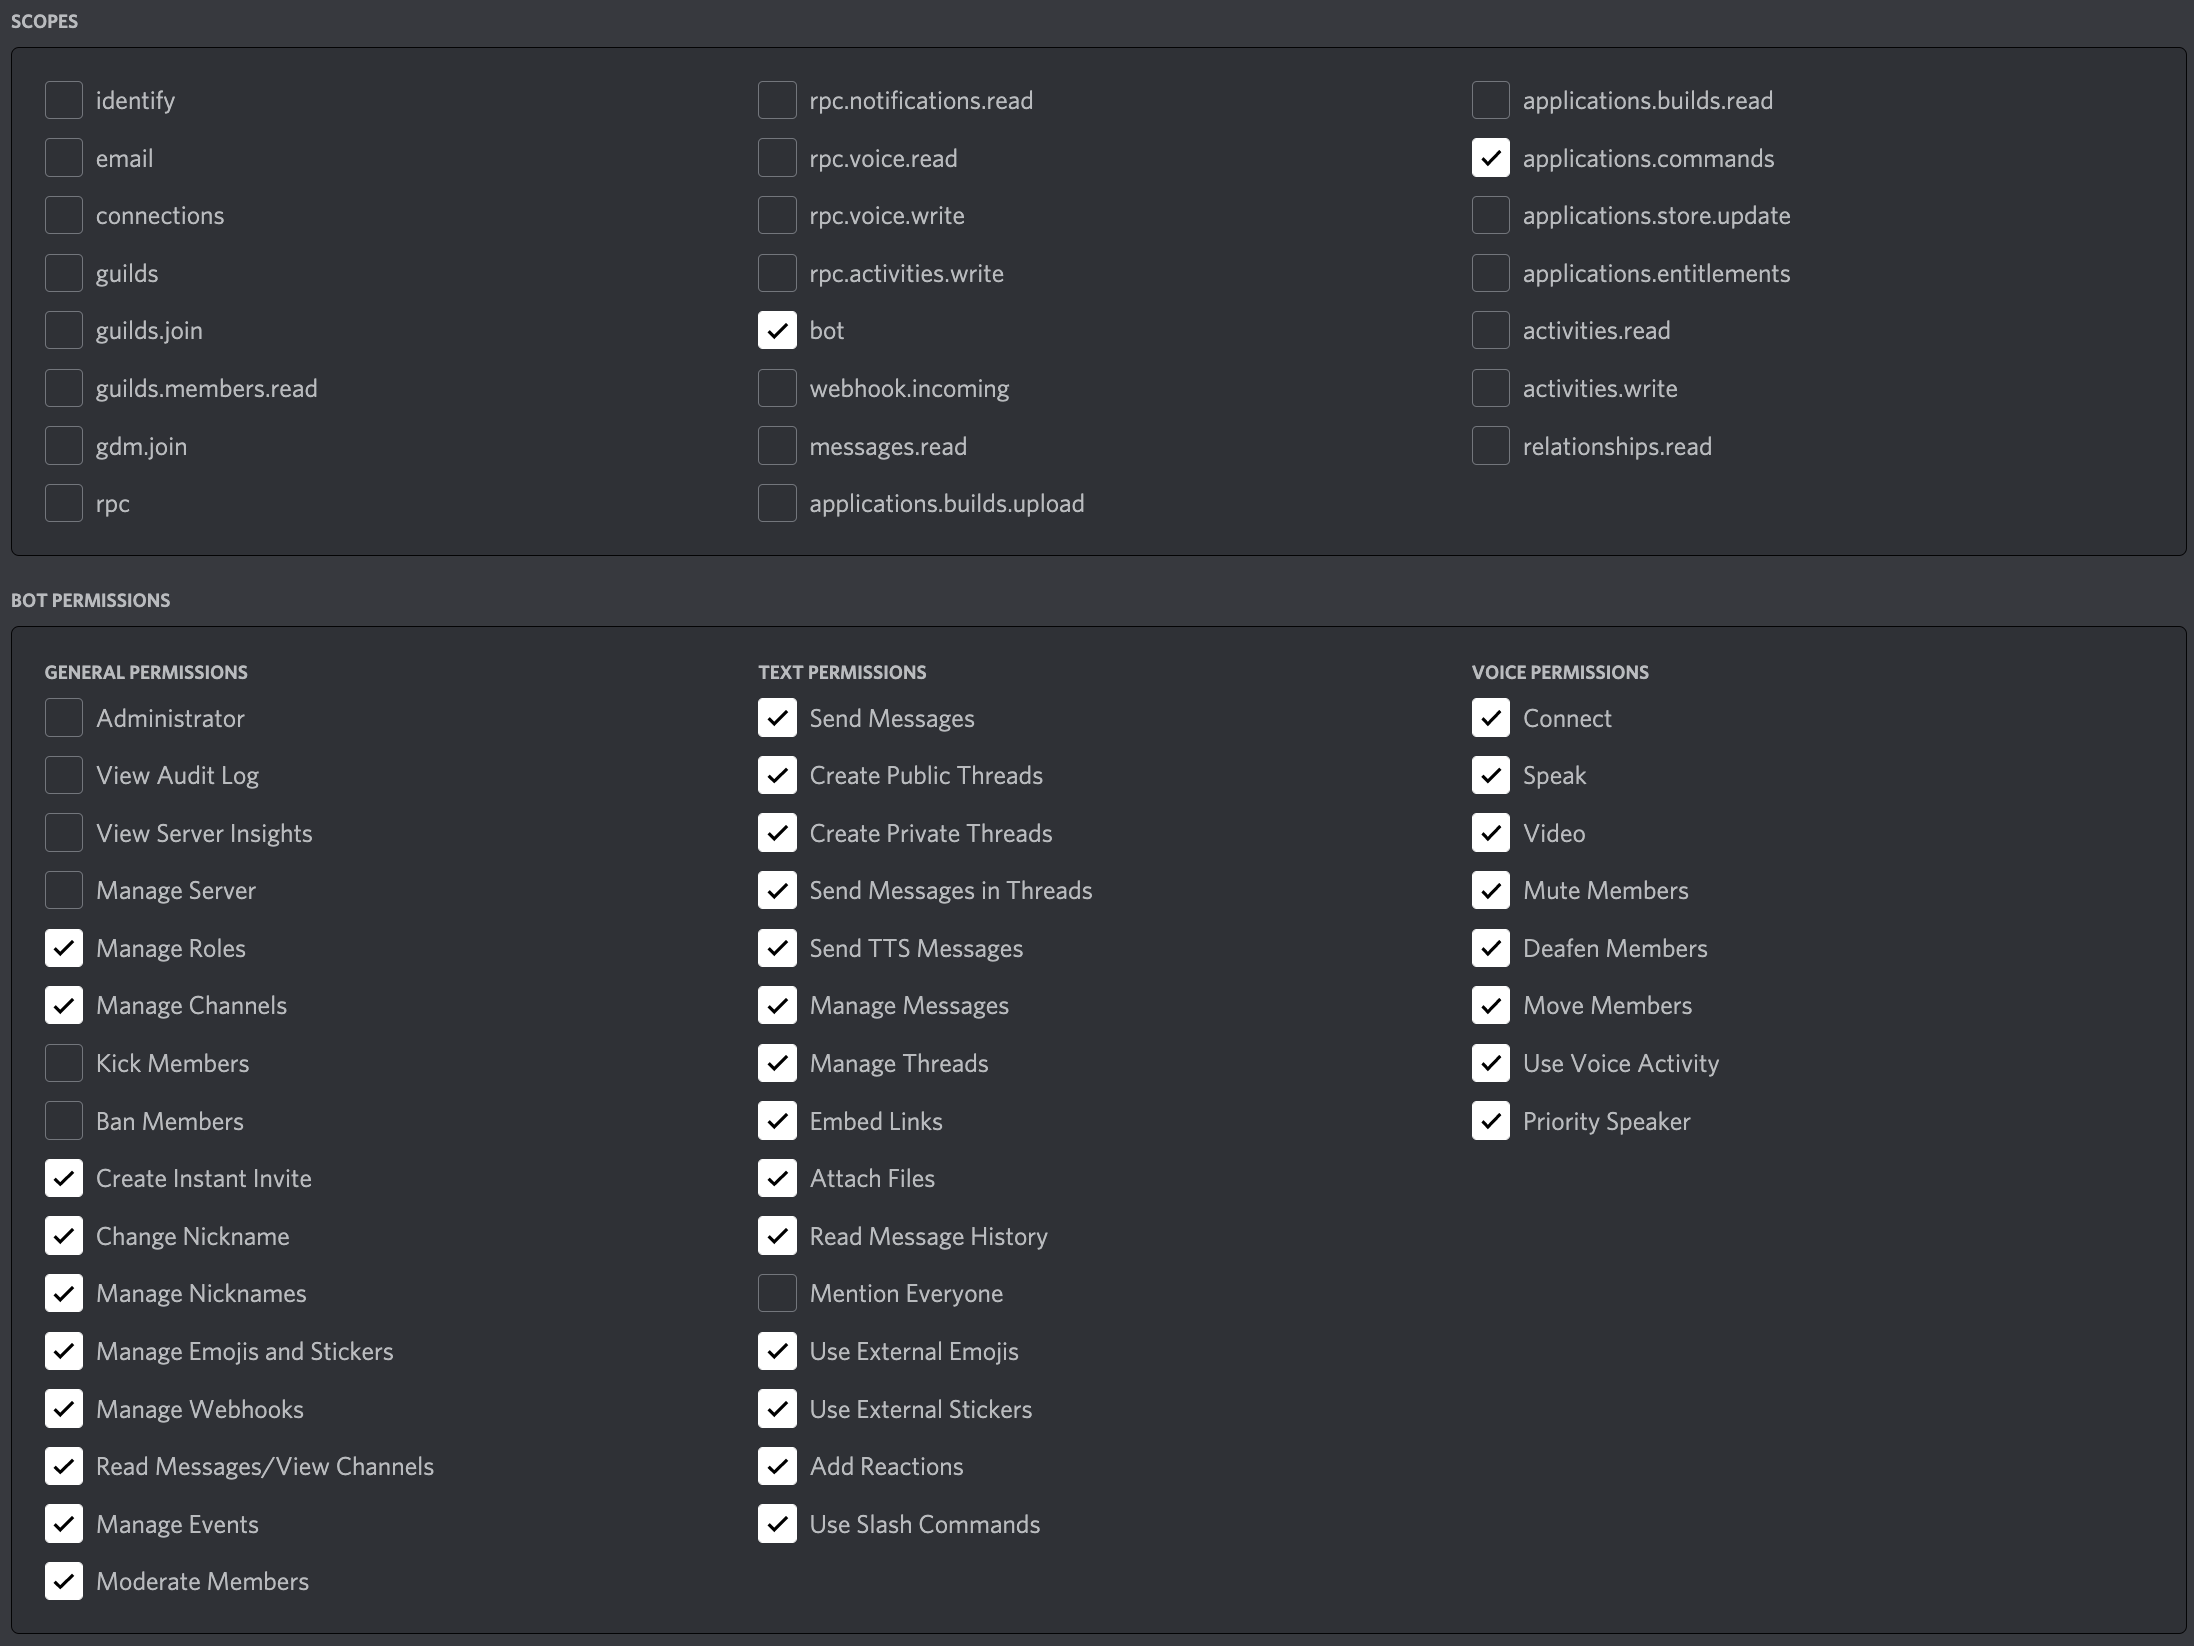
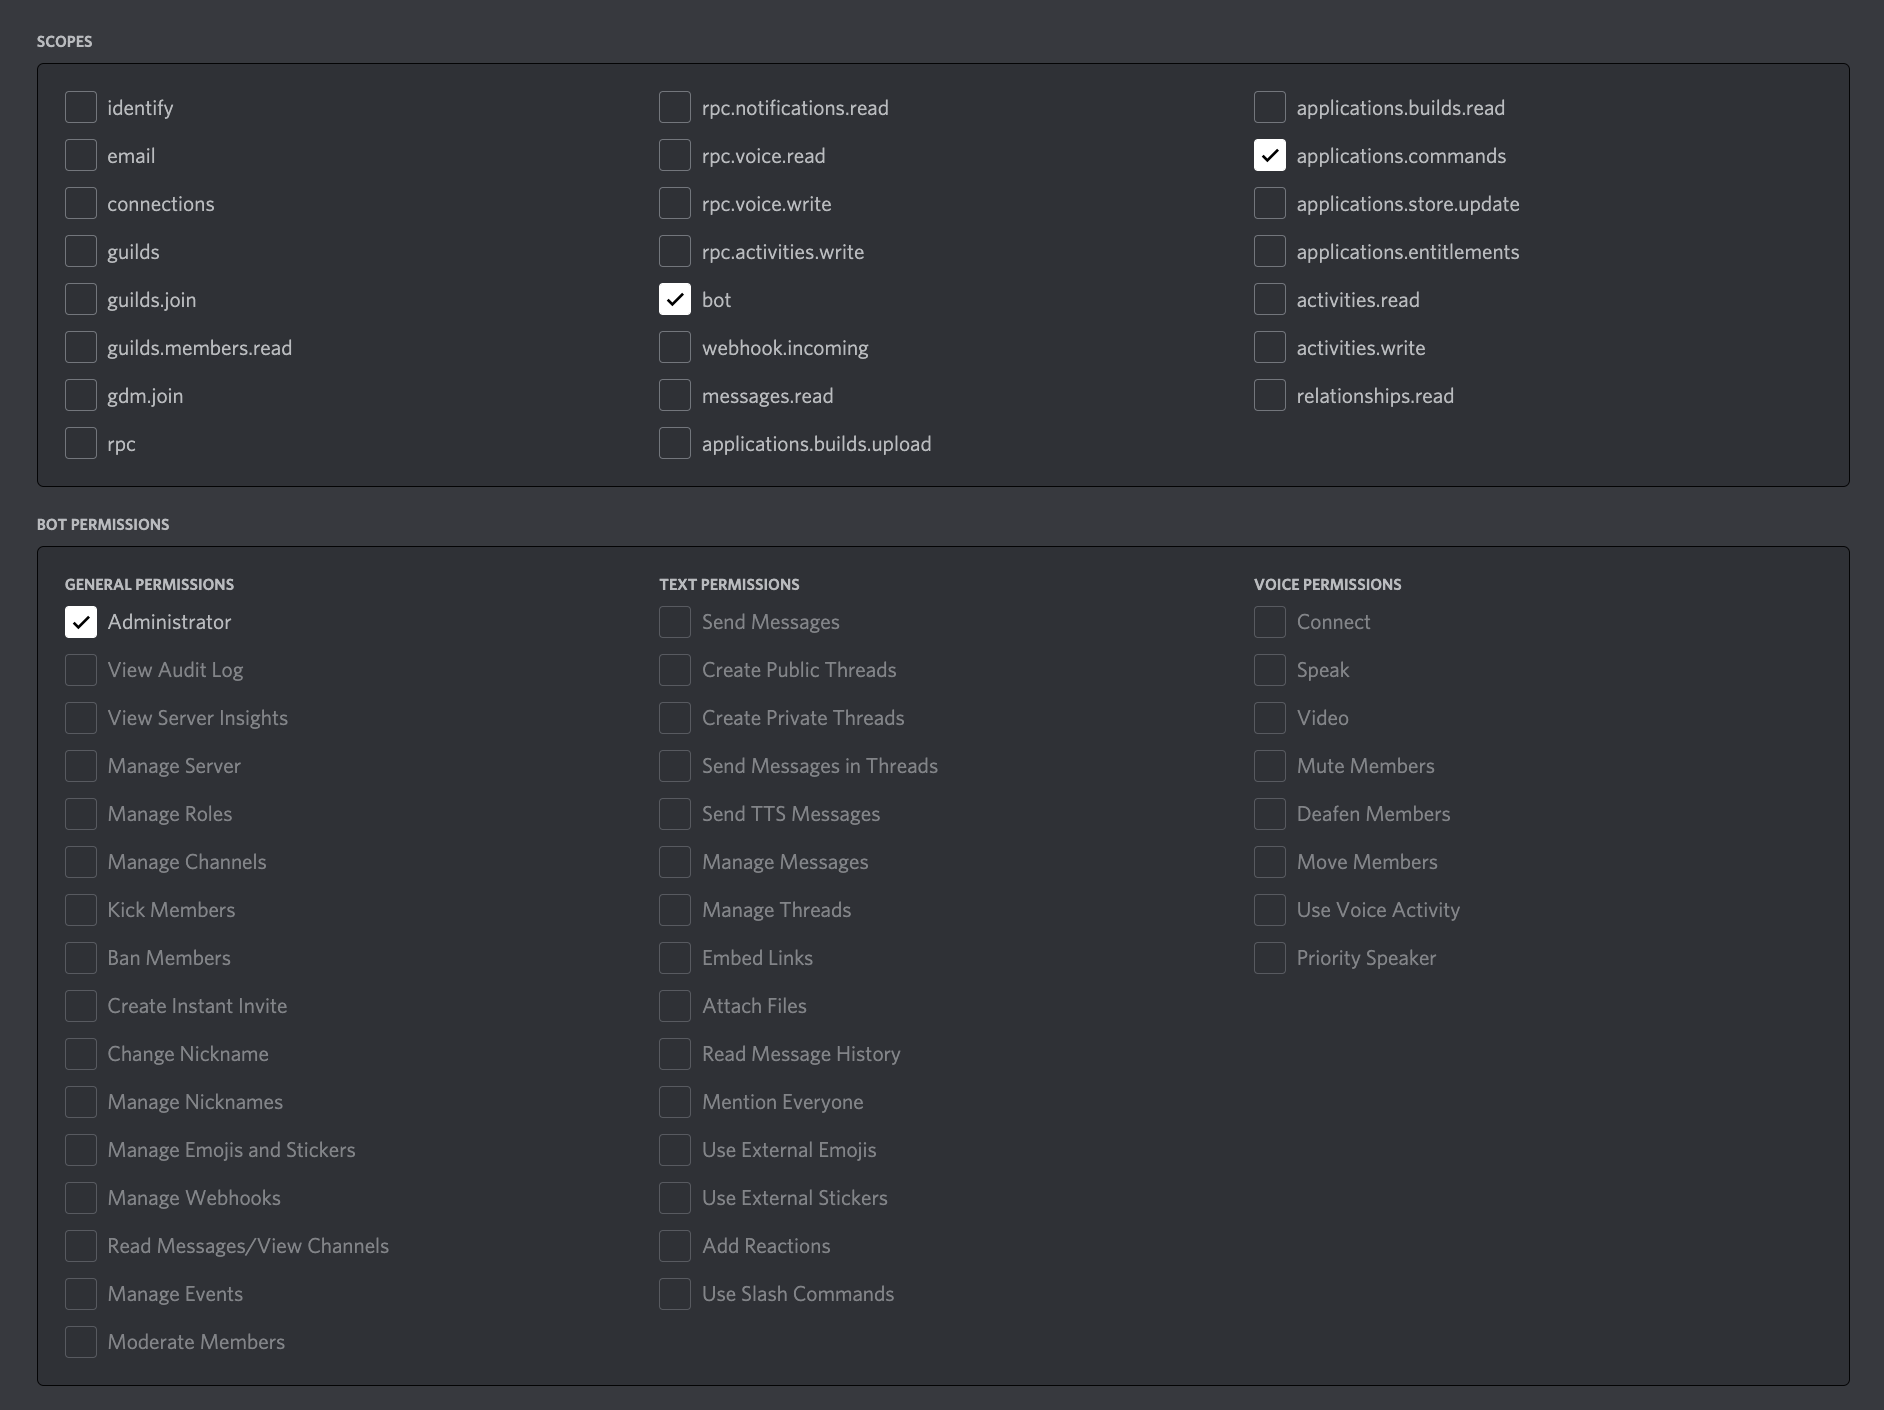
Update README.

diff --git a/README.md b/README.md
@@ -28,9 +28,10 @@ A `HabitatConfig` consists of many `Enforce Data` which each represent a piece o
 
 ```ts
 interface HabitatConfig {
-  clients: EnforceClientData[]
-  channels: EnforceChannelData[]
-  roles: EnforceRoleData[]
+  admin: EnforceClientData[]
+  channels?: EnforceChannelData[]
+  clients?: EnforceClientData[]
+  roles?: EnforceRoleData[]
 }
 ```
 
@@ -42,9 +43,10 @@ For example, the `EnforceClientData` interface is
 
 ```ts
 interface EnforceClientData {
+  commands?: EnforceCommandData[]
   options?: ClientOptions
-  roles?: EnforceRoleData[]
-  presence?: PresenceData
+  presence?: undefined // TODO: PresenceData
+  roles?: undefined // TODO: EnforceRoleData[]
   token: string
   userData?: ClientUserEditData
 }
@@ -52,15 +54,21 @@ interface EnforceClientData {
 
 The fields above encapsulate what is needed to initially create a client and set its appearance.
 
-Note: Enforcement only runs when the server is started and when bots are first added to a server. Client appearances and other data in the server can still be set dynamically. _Habitat.js_ also provides helper methods for more complex bot behavior.
+Note: Enforcement usually only runs when the server is started and when bots are first added to a server. Client appearances and other data in the server can still be set dynamically. _Habitat.js_ also provides helper methods for more complex bot behavior.
 
 ### Client setup
 
-When creating clients in the Discord application portal, you'll need to give the each client the appropriate permissions in order for them to work with _Habitat.js_.
+The goal of the library is help manage an environment of multiple bots. It will be important to give each bot client the appropriate scopes/permissions in order for them to work with _Habitat.js_.
+
+The admin client is in charge of managing guild enforcement, or server setup, and needs the following scopes and permissions.
 
 ![Client permissions](docs/permissions.png)
 
-Currently, _Habitat.js_ does not support the ability to narrow the scope of bot functionality i.e. narrowing the amount of permissions required.
+All other clients require the same scopes as the admin client. However, they don't need to ask for any permissions since the admin bot will manage those later.
+
+#### Inviting
+
+After setting up the admin client, invite the bot to your server. From within your server, run the `/setup` command to get help on inviting your other bots.
 
 ## Development
 
